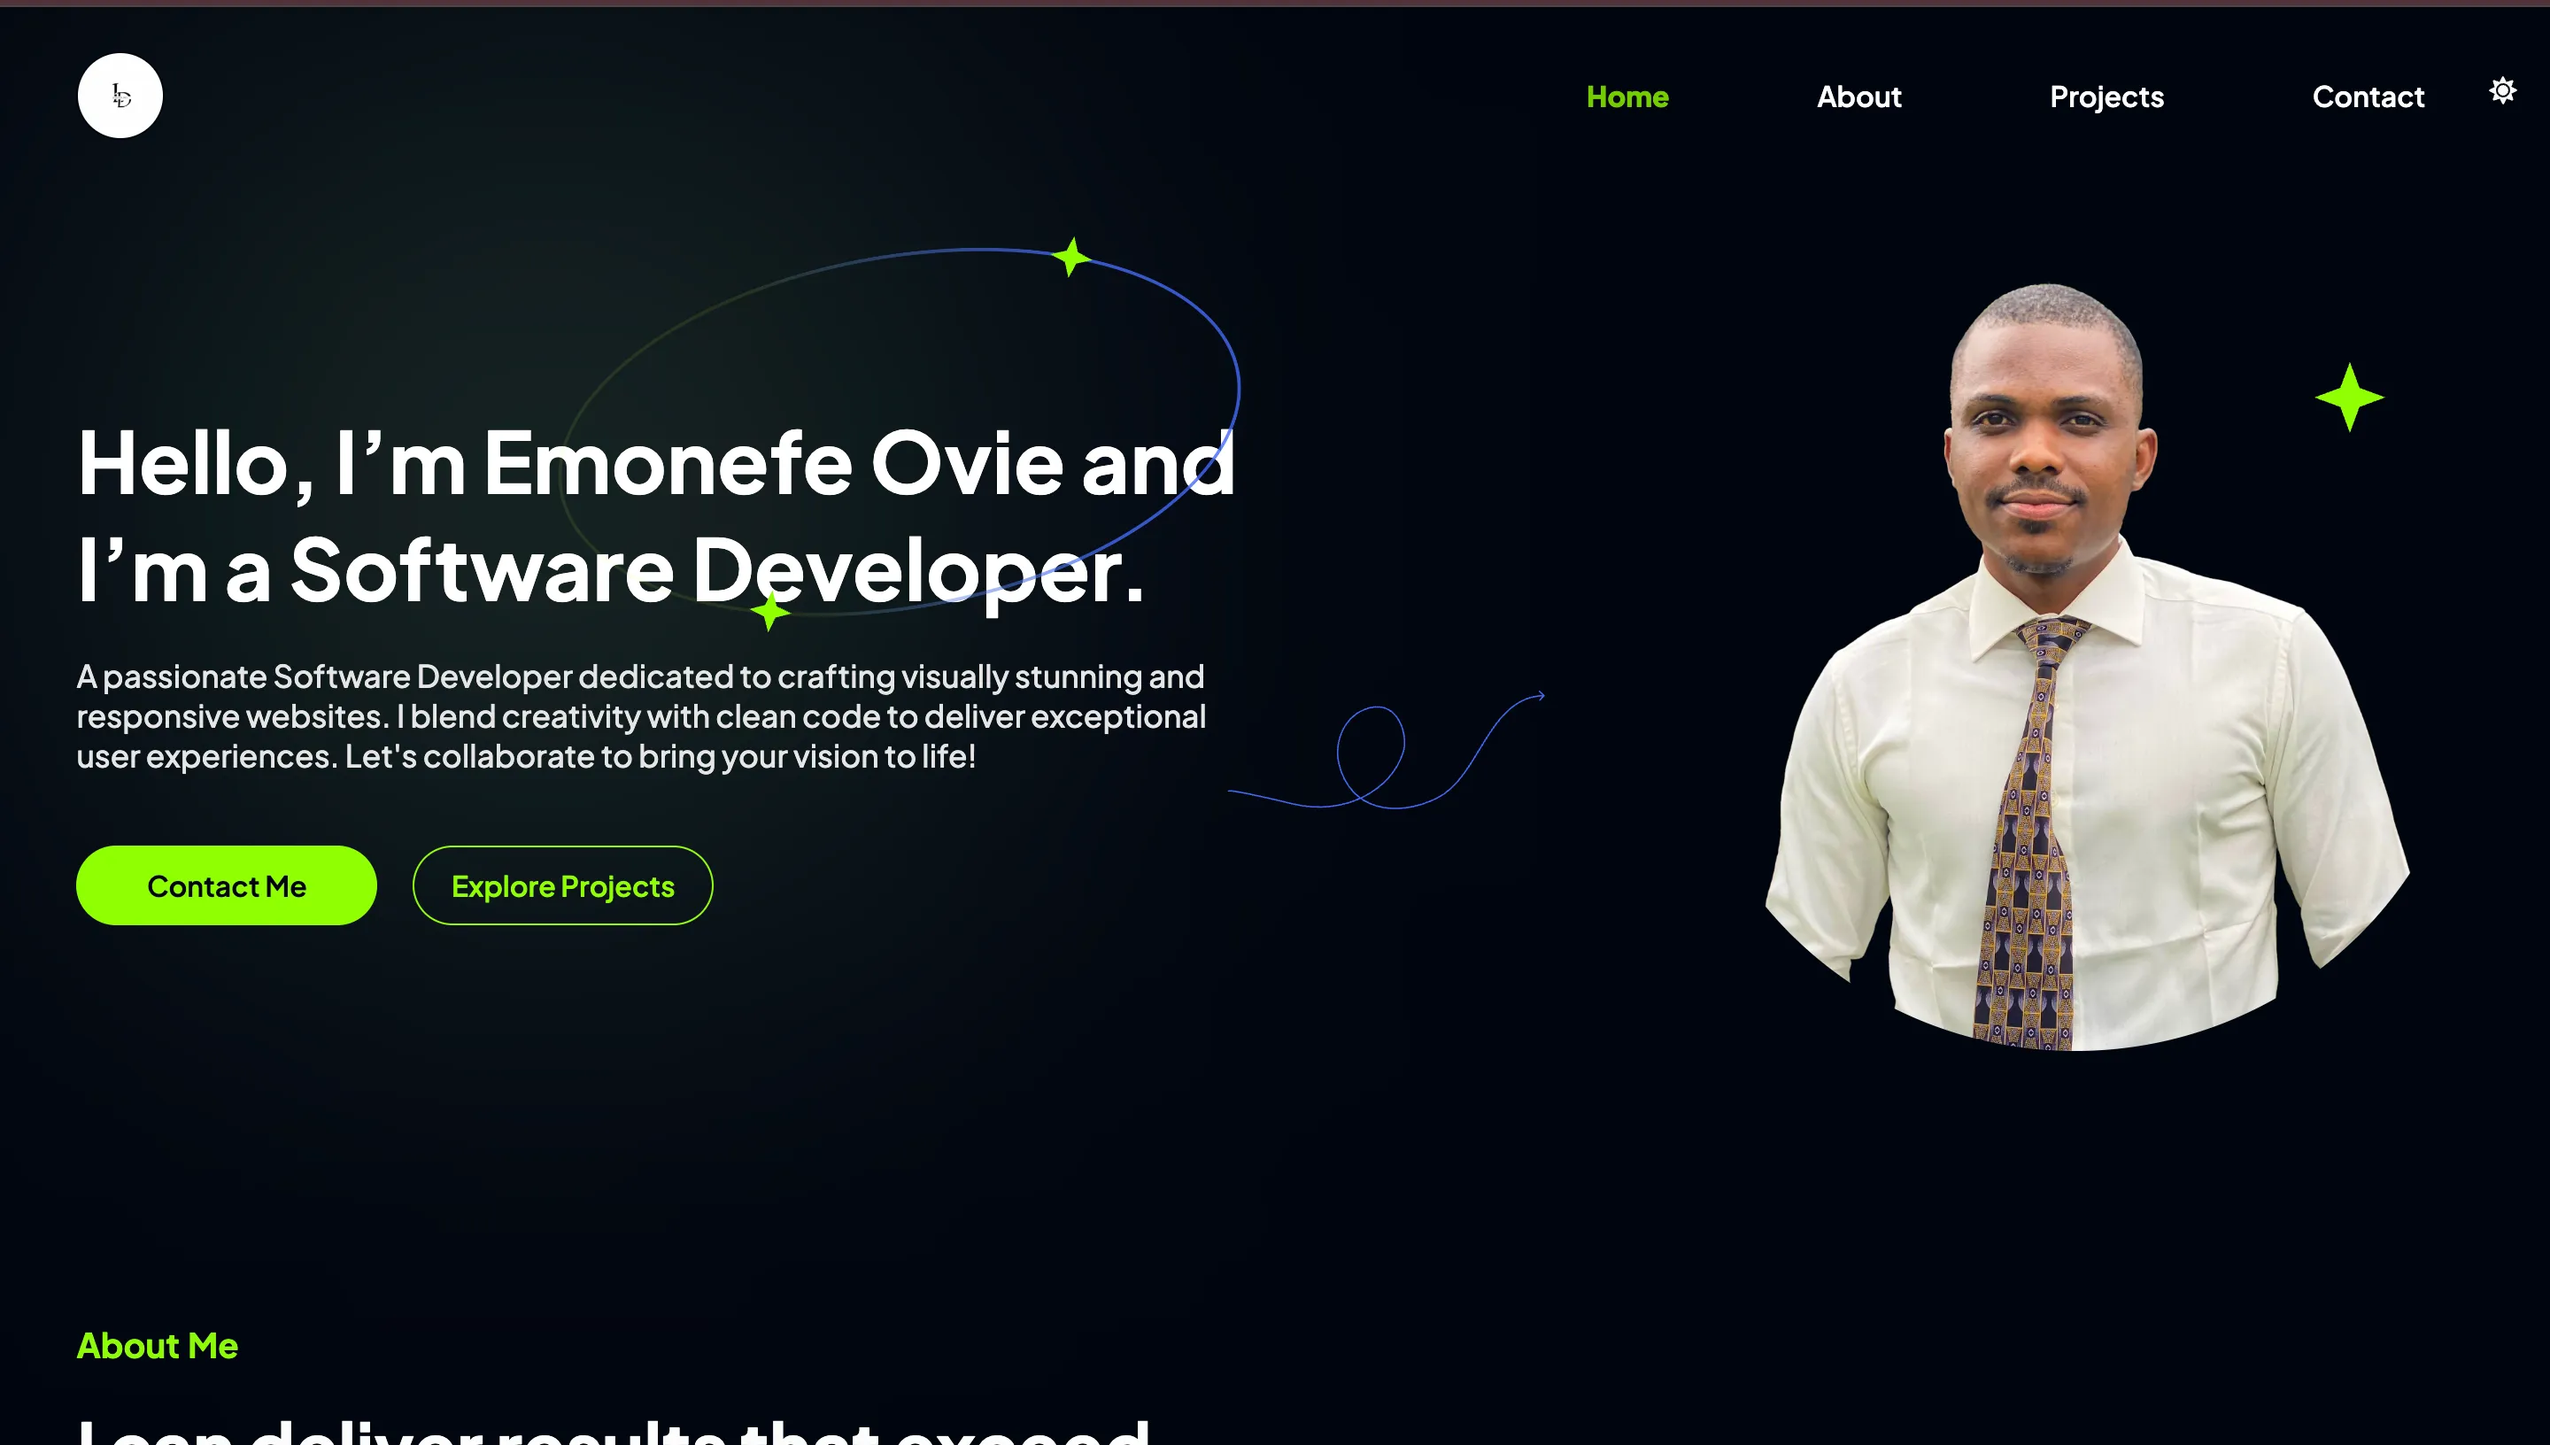
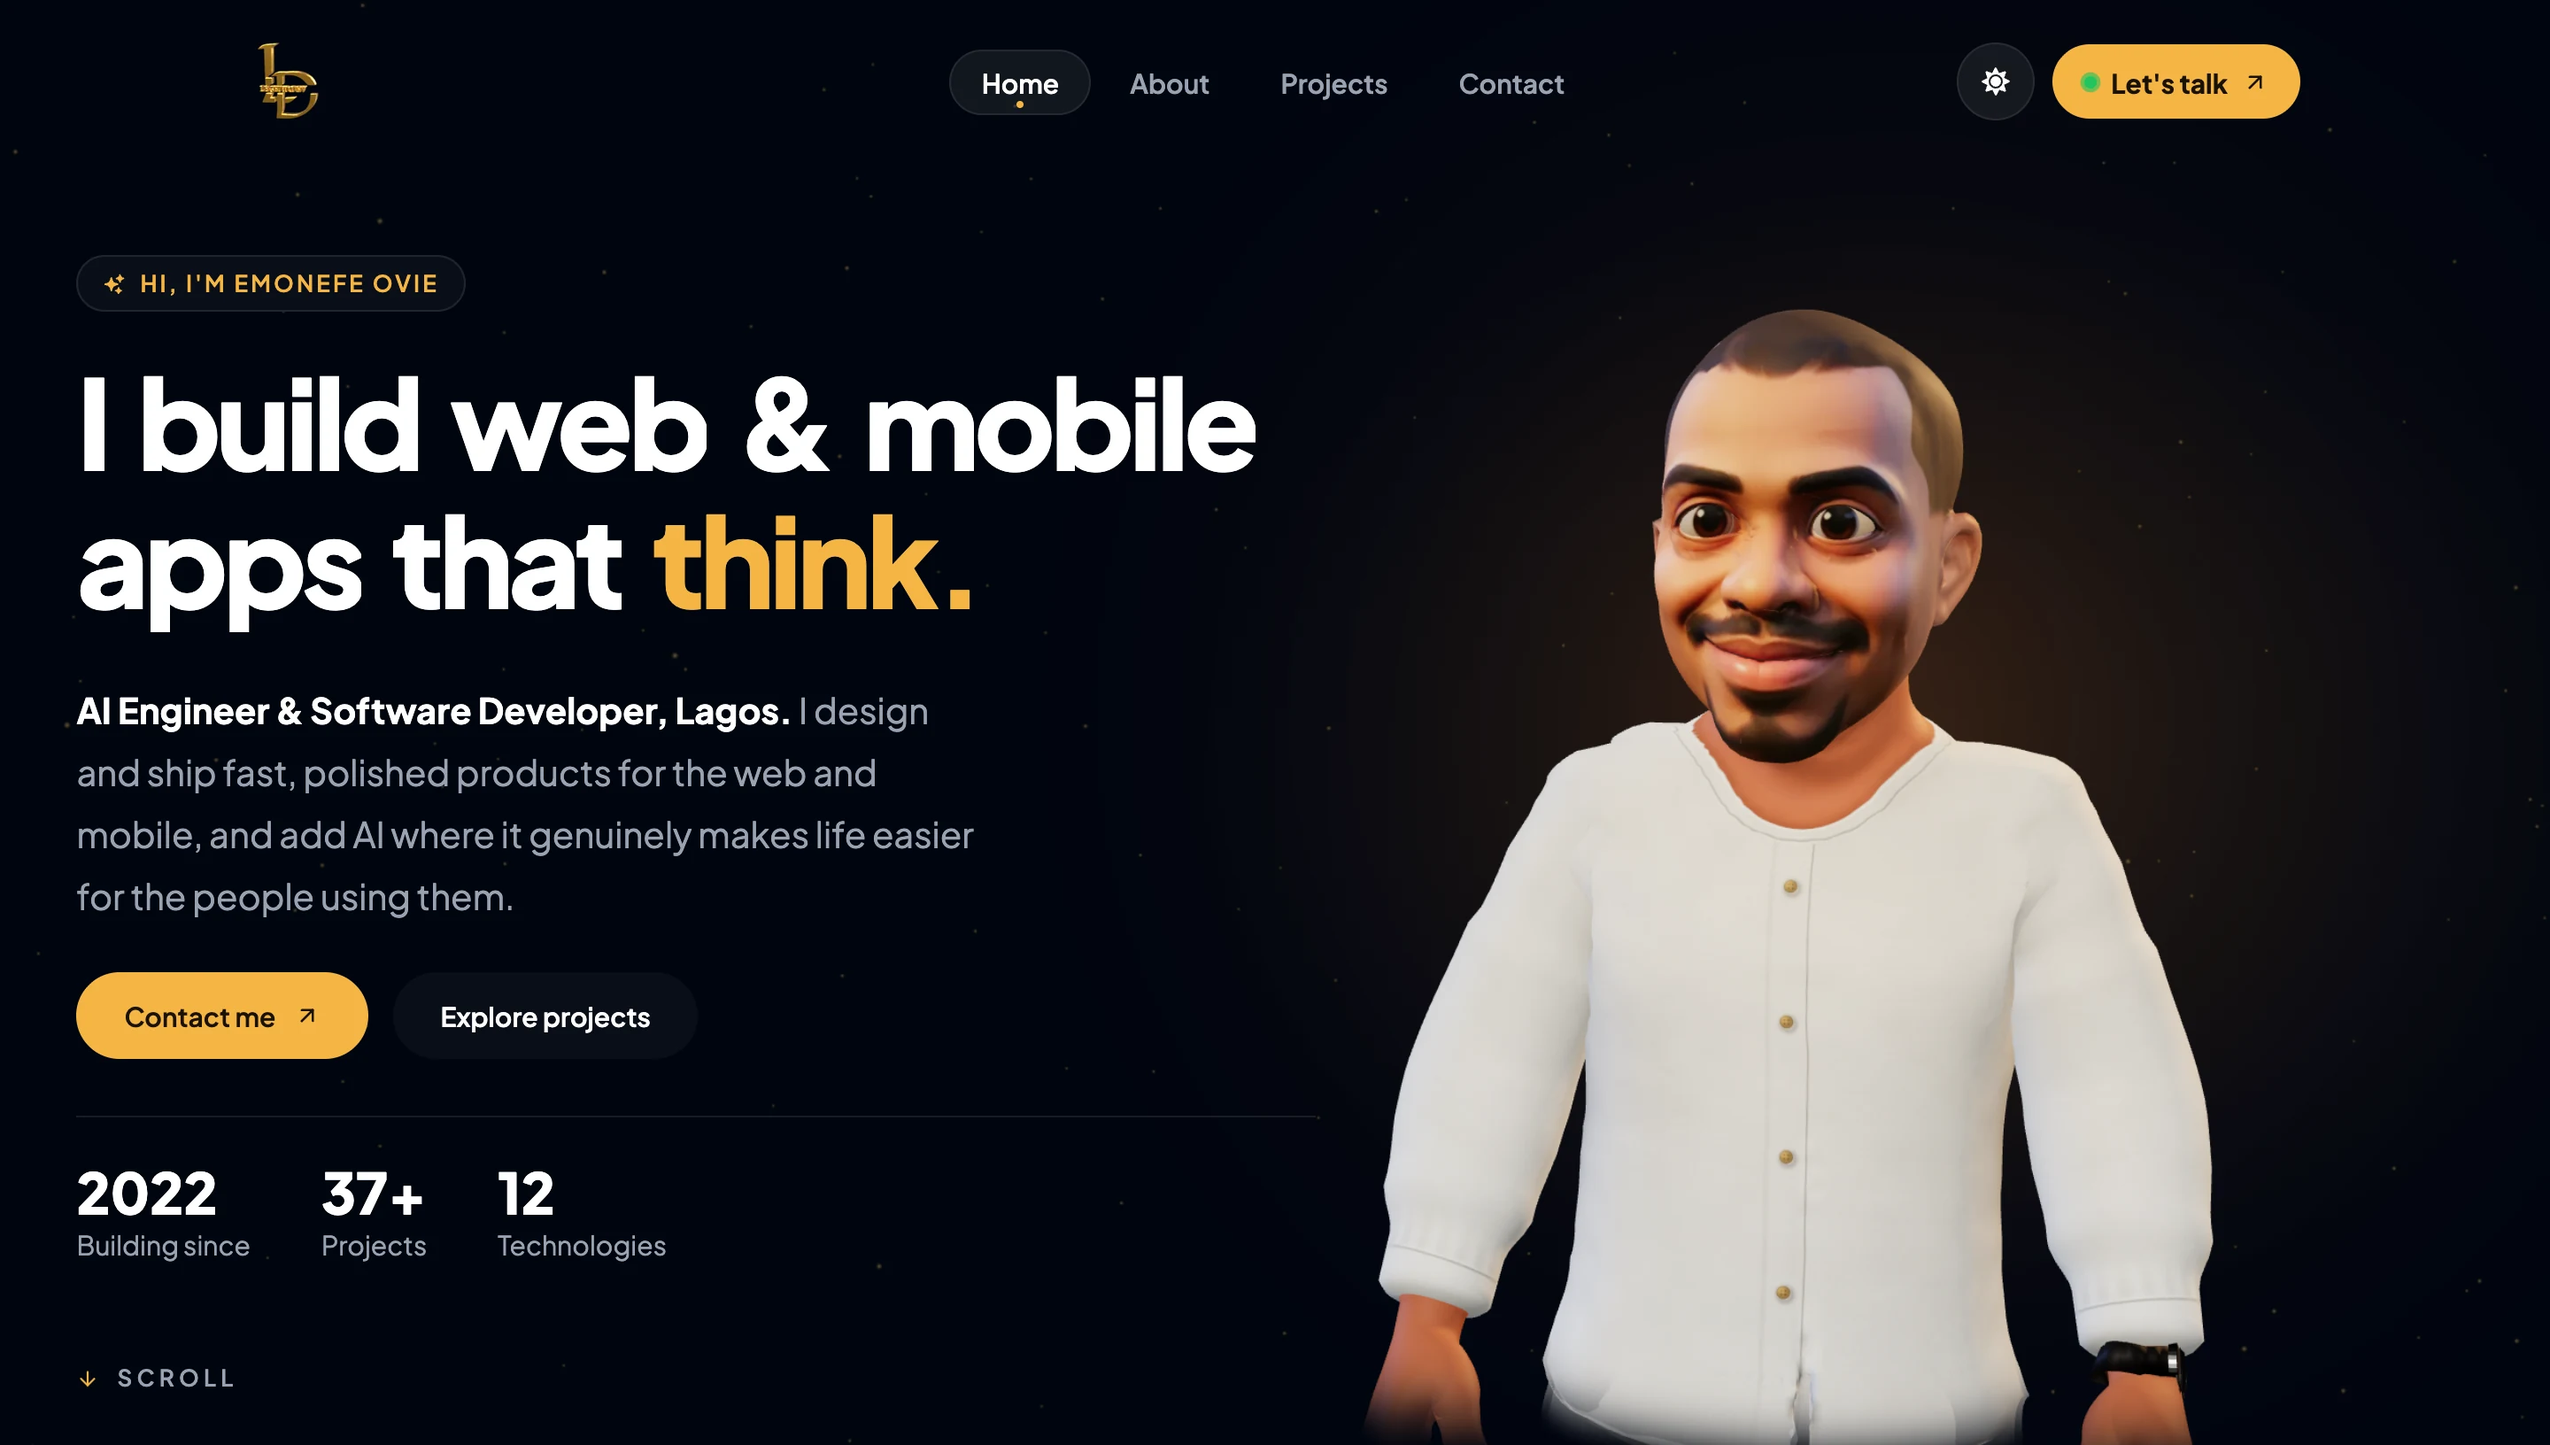
Update the README for the current portfolio
- Describe the 3D avatar, theme outfits, page transitions and new pages
- Bring the tech stack up to date
- New preview of the current homepage

diff --git a/README.md b/README.md
@@ -6,9 +6,9 @@
 
 ## Overview
 
-This project is a modern, responsive developer portfolio built to showcase my skills, projects, and professional identity through clean design and thoughtful interaction. It focuses on performance, simplicity, and user experience while maintaining a strong visual personality.
+This is my personal portfolio, the place where I show who I am as an AI Engineer and Software Developer, the web and mobile apps I've built, and how I like to work. I wanted it to feel fast, simple and easy to read, but still have a personality of its own.
 
-The application highlights my technical strengths, design sensitivity, and attention to detail through animated transitions, theme switching, and structured content presentation.
+The biggest part of that personality is a 3D version of me. He lives on the homepage, follows your cursor, reacts when you click him, and changes outfits when you switch themes. Around him, the site tries to keep things calm: clear text, smooth transitions and content that's easy to scan.
 
 ## Live Demo
 
@@ -18,74 +18,97 @@ Live link: https://legenddev-phi.vercel.app/
 
 ## Tech Stack
 
-- React (JavaScript)
-- Styled Components
+- React (JavaScript) with Vite
+- React Router
 - Vanilla CSS
 - Framer Motion
+- Three.js and React Three Fiber
 - React Icons
+- EmailJS (for the contact form)
+- Blender and Mixamo (to build and animate the 3D avatar)
 
 ## Features
 
 ### Theme System
 
-The portfolio includes a fully implemented dark and light mode system. Each mode features:
+The portfolio has a full dark and light mode. Each mode has:
 
-- A distinct visual theme
-- Custom color palettes
-- Unique background styling
-- Different profile images depending on the active theme
+- Its own visual theme
+- Its own color palette
+- Its own background styling
+- A different outfit for the 3D avatar (a brown senator in light mode, white in dark mode)
 
-The theme switcher ensures a seamless transition between modes while maintaining accessibility and visual clarity.
+When you switch, the whole page fades from one theme to the other in one smooth step, and the avatar does a little twirl while he changes clothes. It starts in whatever your device is set to, and once you pick a theme, it remembers it for next time.
 
 ### Smooth Animations
 
-Framer Motion powers subtle and intentional animations across the application, including:
+Framer Motion and the browser's own View Transitions power small, deliberate animations across the site, including:
 
-- Page transitions
-- Component reveals
+- Page transitions (the header stays still while the page glides in)
+- Component reveals as you scroll
 - Hover interactions
 - Navigation feedback
+- A "How I build" section that plays through my process on its own
 
-Animations enhance the user experience without sacrificing performance.
+Animations are there to help, not to slow you down. If you've turned on reduced motion on your device, the site respects it.
+
+### The 3D Avatar
+
+This is the part I had the most fun building. On the homepage he:
+
+- Follows your cursor with his eyes and head
+- Reacts to clicks, and hides a few Easter eggs (there's a small counter if you want to find them all)
+- Turns to look at a project card when you hover over it
+- Waves goodbye when you reach the bottom of the page, and welcomes you back when you scroll up
+
+On phones he moves into a small round badge in the corner whenever the text needs the space, and hops back out when there's room. A smaller version of him keeps you company on the other pages. On slow connections or with reduced motion, you get a still picture of him instead.
 
 ### Responsive Design
 
-The layout is optimized for:
+The layout works well on:
 
 - Mobile devices
 - Tablets
 - Desktop screens
 
-All pages are designed with flexible layouts and scalable components to ensure consistent presentation across screen sizes.
+Every page uses flexible layouts and scalable components, so it looks right whatever screen you're on.
 
 ## Pages
 
 ### Home
 
-A strong introduction section featuring a personal headline, visual identity, and clear navigation into the rest of the portfolio.
+A strong first impression: a short intro, the 3D avatar, a bit about me, my selected work, the skills and services I offer, and how I take a project from idea to launch.
 
 ### About
 
-A detailed overview of my background, technical skills, development philosophy, and professional focus.
+My story, from a cyber café in Lagos to building intelligent products: my background, technical skills, how I like to work, and answers to the questions people usually ask me.
 
 ### Projects
 
-A curated collection of selected work demonstrating:
+A collection of my work that shows:
 
-- Problem-solving ability
+- How I solve problems
 - Frontend architecture decisions
 - UI implementation
 - Real-world use cases
 
-Each project highlights key technologies and the thinking behind the build.
+You can filter projects by type, search them, and open each one to see the technologies and the thinking behind it.
 
 ### Contact
 
-A clean and accessible contact page that allows visitors to easily reach out for collaboration, freelance work, or professional opportunities.
+A simple contact page where you can reach me for collaboration, freelance work or full-time opportunities. As you fill in the form, a little code editor next to it writes your message out as code, and I reply within 24 hours.
+
+### Privacy
+
+A plain-language privacy page that explains what the contact form collects and what happens to it.
+
+### 404
+
+If you land on a page that doesn't exist, the 3D avatar is there to keep you company and point you back home.
 
 ## Architecture and Structure
 
-The project is structured with reusable components and clear separation of concerns. Styling is managed through a combination of Styled Components and modular CSS for flexibility and maintainability.
+The project is built from reusable components with a clear separation of concerns. All styling lives in vanilla CSS, using shared tokens for colors and text sizes so every page stays consistent.
 
 Core principles followed:
 
@@ -95,14 +118,16 @@ Core principles followed:
 - Maintainable state management
 - Performance-conscious rendering
 
+On the performance side, the 3D models only load what's needed (the current outfit first, and the avatar's moves in two parts), browsers keep the files cached for return visits, and every page is pre-rendered so search engines can read it.
+
 ## Design Philosophy
 
-This portfolio balances minimalism with personality. The interface is intentional, readable, and focused on clarity. Every animation and design decision supports usability rather than distracting from it.
+This portfolio balances minimalism with personality. I wanted it to be clean and easy to read, with every animation and design decision there to help, not distract.
 
-The dual-theme implementation reflects adaptability and attention to user preference, while the overall structure reflects modern frontend best practices.
+The two themes are about letting people use the site the way they like it, and the overall structure follows modern frontend practices I believe in.
 
 ## Purpose
 
-This project serves as a professional representation of my frontend engineering skills, combining technical execution with thoughtful user experience design.
+This project is how I show my skills as a developer, both the technical side and the care I put into the experience.
 
-It is both a showcase and a demonstration of how I approach building real-world applications.
+It's a showcase, but it's also an honest example of how I approach building real-world applications.
